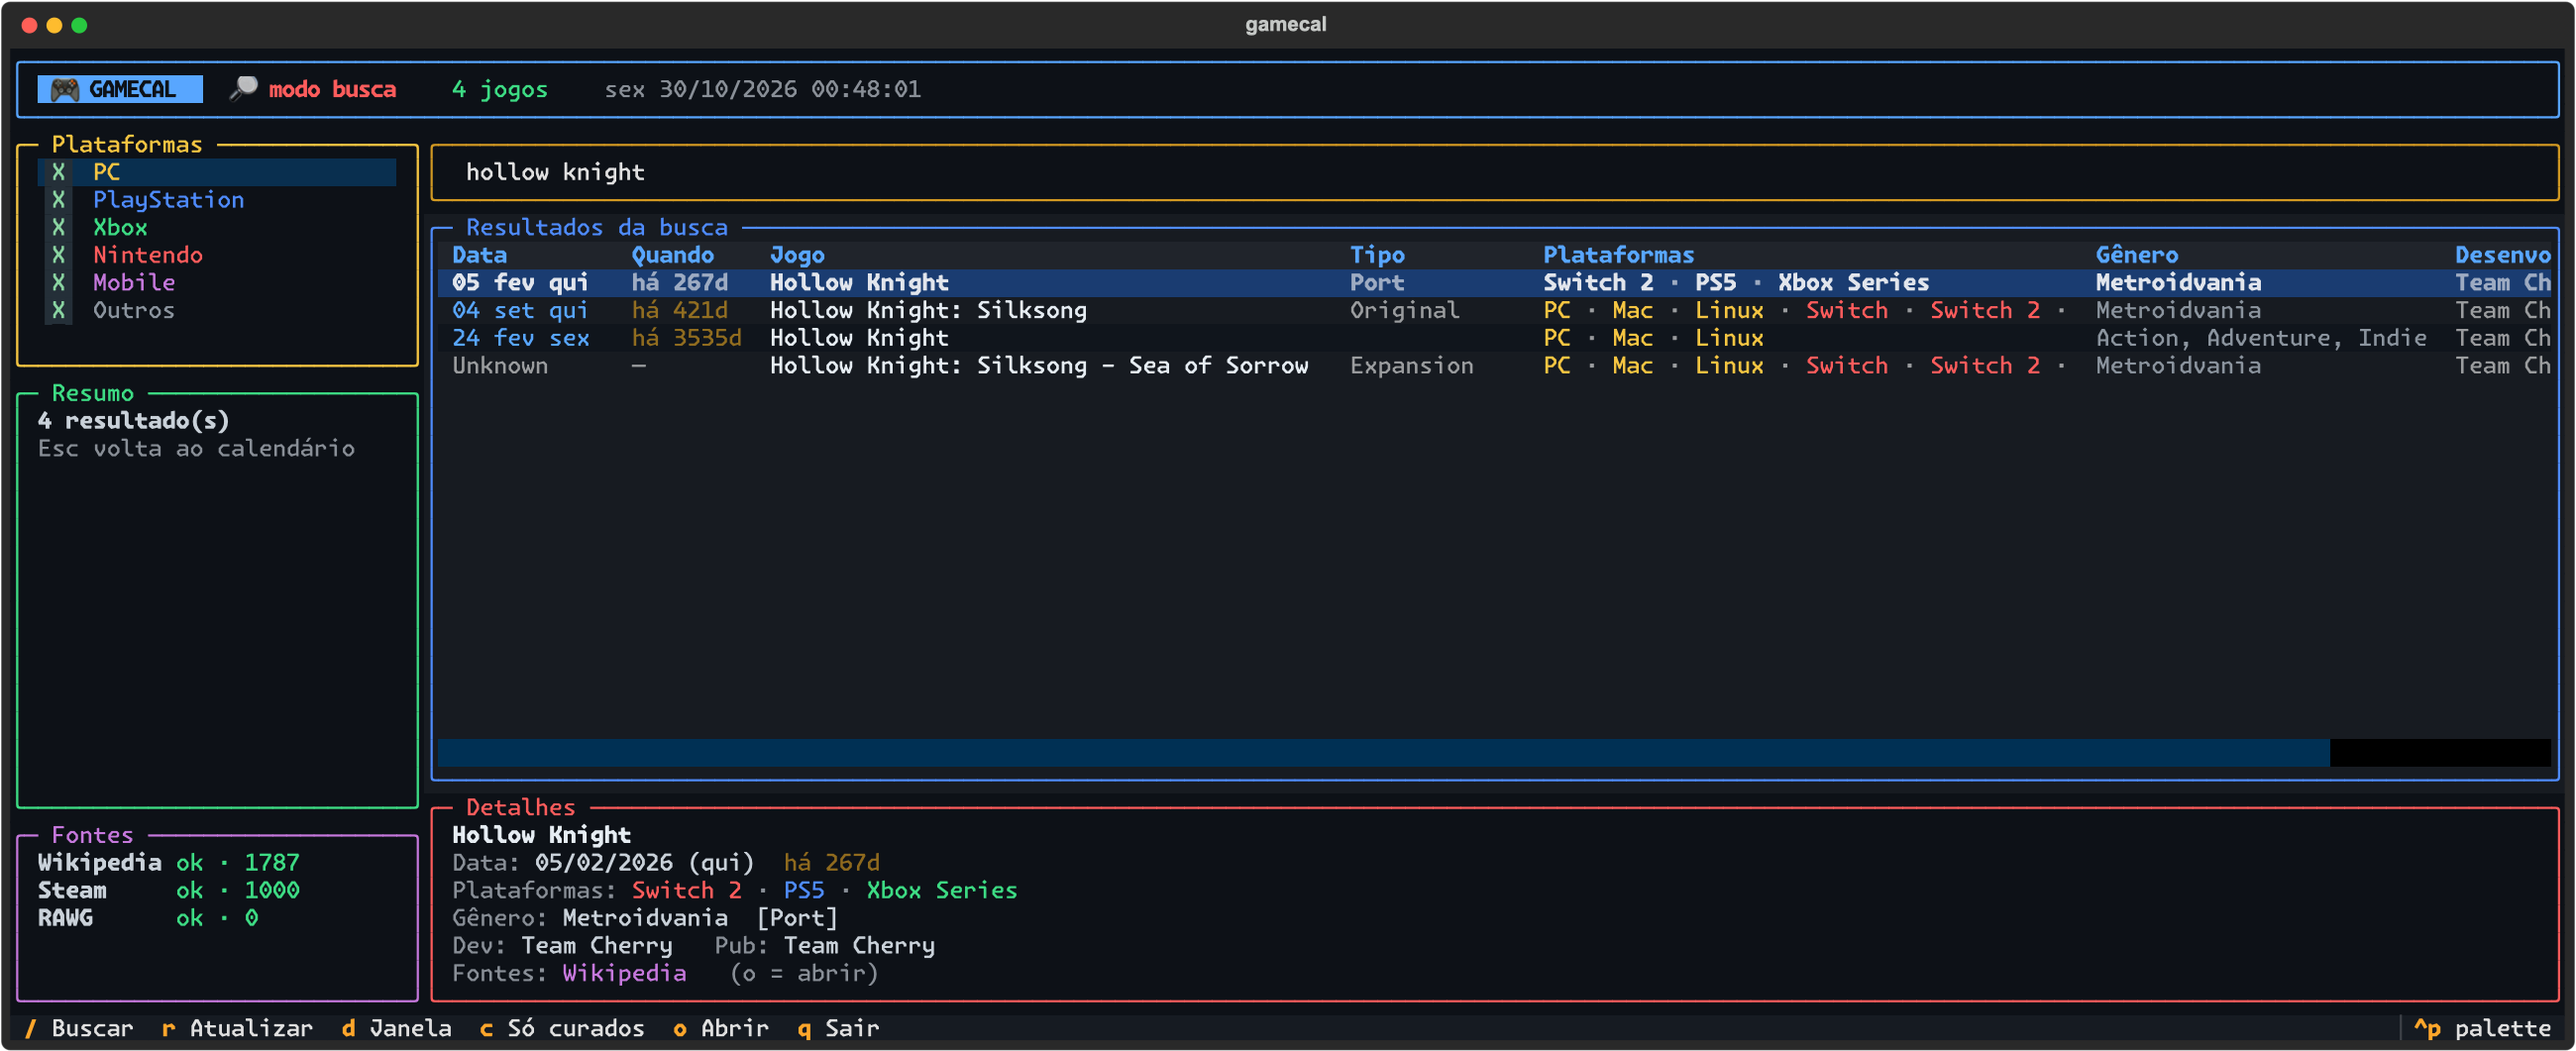
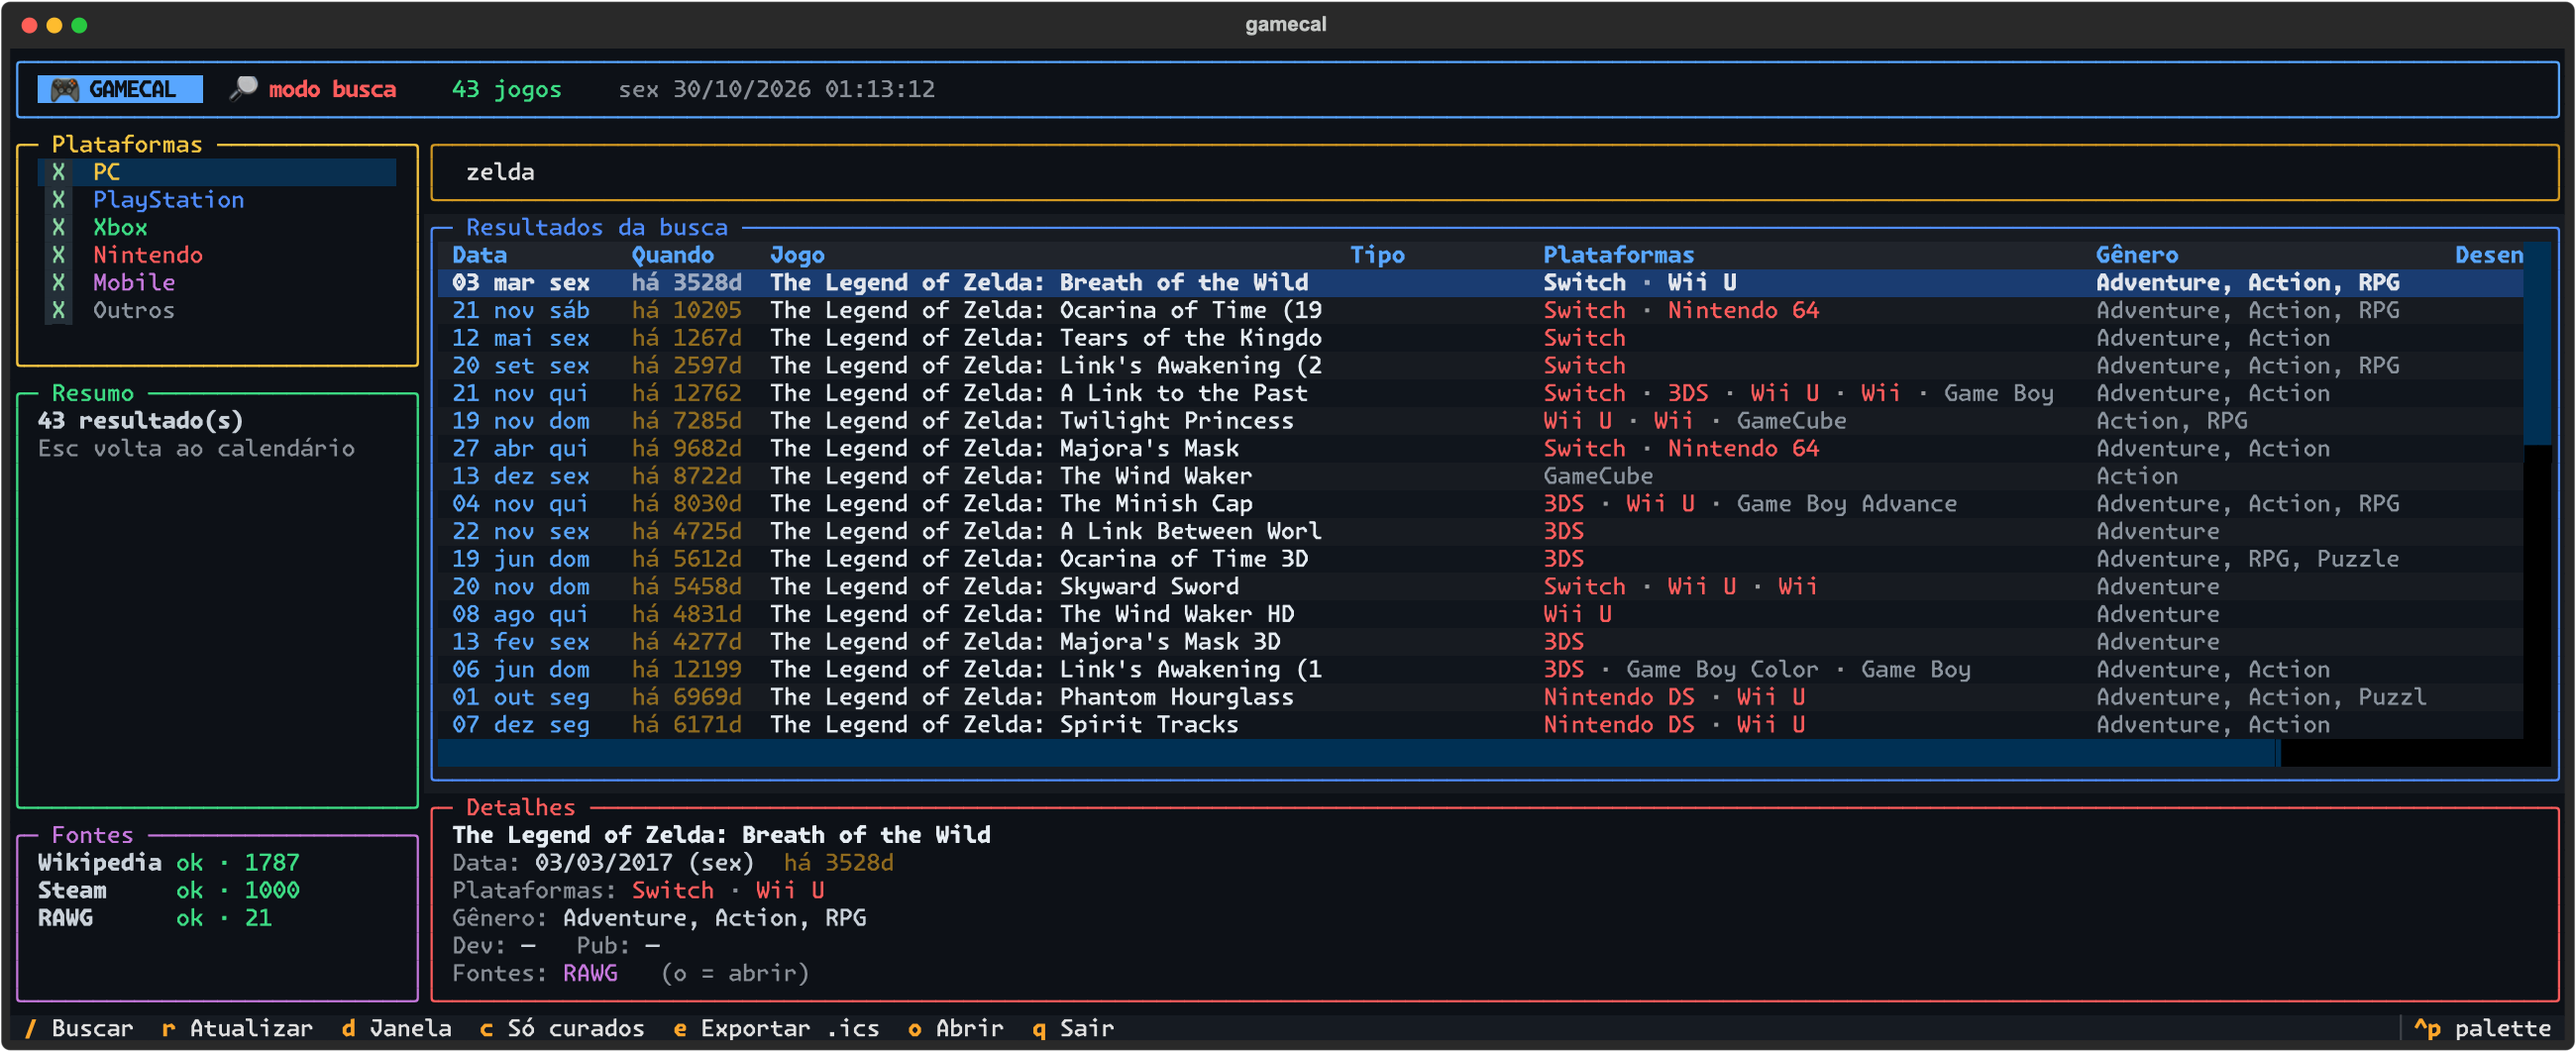
Integra RAWG: normaliza plataformas, busca por siglas e ordena por popularidade
- nomes de plataforma da RAWG casam com os da Wikipedia (sem duplicar ao mesclar)
- busca entende siglas (gta -> Grand Theft Auto) e descarta resultados sem relação
- resultados ordenados por popularidade (campo added da RAWG)
- screenshots e README atualizados com a RAWG ativa

diff --git a/gamecal.py b/gamecal.py
@@ -83,6 +83,13 @@ def norm(name: str) -> str:
     return re.sub(r"[^a-z0-9]", "", name.lower())
 
 
+def matches(name: str, toks: list[str]) -> bool:
+    """Todos os termos precisam estar no nome ou nas iniciais dele ("gta" → Grand Theft Auto)."""
+    low = name.lower()
+    acronym = "".join(w[0] for w in re.findall(r"[a-z0-9]+", low))
+    return all(t in low or t in acronym for t in toks)
+
+
 @dataclass
 class Game:
     name: str
@@ -95,6 +102,7 @@ class Game:
     pub: str = ""
     url: str = ""
     sources: list[str] = field(default_factory=list)
+    pop: int = 0                     # popularidade (RAWG 'added'); ordena a busca
 
     @property
     def d(self) -> date | None:
@@ -318,11 +326,22 @@ async def steam_search(c: httpx.AsyncClient, q: str) -> list[Game]:
 
 
 # ───────────────────────────── RAWG (opcional) ─────────────────────────────
+RAWG_PLATFORMS = {
+    "PC": "PC", "macOS": "Mac", "Linux": "Linux", "PlayStation 5": "PS5", "PlayStation 4": "PS4",
+    "PlayStation 3": "PS3", "PS Vita": "Vita", "Xbox Series S/X": "Xbox Series",
+    "Xbox One": "Xbox One", "Xbox 360": "Xbox 360", "Nintendo Switch": "Switch",
+    "Nintendo Switch 2": "Switch 2", "Wii U": "Wii U", "Wii": "Wii", "Nintendo 3DS": "3DS",
+    "Android": "Android", "iOS": "iOS",
+}
+
+
 def rawg_to_game(j: dict) -> Game:
-    plats = [p["platform"]["name"] for p in j.get("platforms") or []]
+    plats = [RAWG_PLATFORMS.get(p["platform"]["name"], p["platform"]["name"])
+             for p in j.get("platforms") or []]
     return Game(name=j["name"], date=j.get("released"), date_text=j.get("released") or "TBA",
                 platforms=plats, genre=", ".join(g["name"] for g in j.get("genres", [])[:3]),
-                url=f"https://rawg.io/games/{j.get('slug', '')}", sources=["RAWG"])
+                url=f"https://rawg.io/games/{j.get('slug', '')}", sources=["RAWG"],
+                pop=int(j.get("added") or 0))
 
 
 async def fetch_rawg(c: httpx.AsyncClient, start: date, end: date, force=False) -> list[Game]:
@@ -352,7 +371,7 @@ async def rawg_search(c: httpx.AsyncClient, q: str) -> list[Game]:
     if not RAWG_KEY:
         return []
     r = await c.get("https://api.rawg.io/api/games", params={
-        "key": RAWG_KEY, "search": q, "page_size": 15, "search_precise": "true"})
+        "key": RAWG_KEY, "search": q, "page_size": 40})
     return [rawg_to_game(x) for x in r.json().get("results", [])] if r.status_code == 200 else []
 
 
@@ -370,6 +389,7 @@ def merge(*lists: list[Game]) -> list[Game]:
                     for s in g.sources:
                         if s not in e.sources:
                             e.sources.append(s)
+                    e.pop = max(e.pop, g.pop)
                     for a in ("genre", "dev", "pub", "kind", "url"):
                         if not getattr(e, a) and getattr(g, a):
                             setattr(e, a, getattr(g, a))
@@ -732,12 +752,18 @@ class GameCal(App):
             except Exception:  # noqa: BLE001
                 pass
         toks = q.lower().split()
-        local = [g for g in self.pool if all(tk in g.name.lower() for tk in toks)]
-        online = await asyncio.gather(steam_search(c, q), rawg_search(c, q), return_exceptions=True)
-        online = [o for o in online if not isinstance(o, Exception)]
-        res = merge(local, *online)
-        res = [g for g in res if all(tk in g.name.lower() for tk in toks)]
-        res.sort(key=lambda g: (not norm(g.name).startswith(norm(q)), -(g.d.toordinal() if g.d else 0)))
+        local = [g for g in self.pool if matches(g.name, toks)]
+        steam_r, rawg_r = await asyncio.gather(steam_search(c, q), rawg_search(c, q),
+                                               return_exceptions=True)
+        steam = [] if isinstance(steam_r, Exception) else steam_r
+        rawg = [] if isinstance(rawg_r, Exception) else rawg_r
+        res = merge(local, *([g for g in lst if matches(g.name, toks)] for lst in (steam, rawg)))
+
+        def score(g: Game) -> int:
+            # Wikipedia/Steam têm piso, para não ficarem atrás de jogos amadores da RAWG
+            return g.pop if g.sources == ["RAWG"] else max(g.pop, 50)
+
+        res.sort(key=lambda g: (-score(g), -(g.d.toordinal() if g.d else 0)))
         self.search_results = res
         self.render_table()
 

diff --git a/README.md b/README.md
@@ -14,7 +14,7 @@
 - **Próximos lançamentos** (7, 15, 30, 60 ou 90 dias) com nome, data, contagem regressiva, plataformas, gênero, desenvolvedora e tipo (original, port, remaster, early access…).
 - **Filtro por plataforma:** PC, PlayStation, Xbox, Nintendo, Mobile.
 - **Painel de resumo:** lançamentos por semana e por plataforma, em barras.
-- **Busca de jogos** (`/`), lançados ou ainda por lançar.
+- **Busca de jogos** (`/`), lançados ou ainda por lançar. Entende siglas (`gta` acha Grand Theft Auto) e ordena por popularidade.
 - **Várias fontes** unidas sem duplicar o mesmo jogo.
 - **Cache local**, então abre rápido e funciona bem em reaberturas.
 - **Exporta para calendário `.ics`** (`e`): Apple Calendar, Google Calendar, Outlook… com lembrete na véspera às 9h.
@@ -94,7 +94,7 @@ Jogos sem data exata (só "Q4", "TBA") não são exportados. Reimportar o mesmo 
 |---|---|---|
 | **Wikipedia** (listas de jogos lançados por ano) | não precisa | Multiplataforma, com gênero, dev e publisher |
 | **Steam** (loja) | não precisa | PC, com datas exatas de "em breve" e busca com detalhes |
-| **RAWG** | opcional | Catálogo grande, melhora muito a busca de jogos antigos |
+| **RAWG** | opcional | Catálogo enorme (jogos de todas as épocas e plataformas). Melhora muito a busca; no calendário contribui com poucos itens futuros |
 
 Para ativar a RAWG, crie uma chave grátis em <https://rawg.io/apidocs> e use **uma** das opções:
 
@@ -108,6 +108,11 @@ mkdir -p ~/.config/gamecal && echo "sua-chave" > ~/.config/gamecal/rawg_key && c
 
 A chave fica só na sua máquina, e o gamecal nunca a grava no cache nem em arquivos exportados. Se a chave for inválida, o painel **Fontes** mostra `erro`.
 
+### Busca
+
+A busca combina as três fontes e une o mesmo jogo numa linha só (plataformas e fontes somadas). Os resultados vêm ordenados por popularidade (campo `added` da RAWG), para que
+Breath of the Wild apareça antes de jogos amadores com nome parecido. Nomes e siglas são aceitos: `gta vi`, `mario kart`, `hollow knight`.
+
 O painel **Fontes** mostra o estado de cada uma (`ok · quantidade` ou `erro`).
 O cache fica em `~/.cache/gamecal` (Wikipedia: 6h, Steam: 1h, RAWG: 3h).
 
@@ -120,7 +125,7 @@ na Wikipedia ou na RAWG. Os demais ficam ocultos e o painel avisa quantos são (
 
 - Os dados da Wikipedia e da Steam são lidos do HTML/APIs públicas. Se o formato mudar, uma fonte pode falhar e o painel **Fontes** vai mostrar `erro`.
 - Jogos da Wikipedia sem dia exato (só "Q4", "December" ou "TBA") não entram no calendário, mas aparecem na busca.
-- Sem chave RAWG, a busca de jogos antigos cobre só a Steam e as listas da Wikipedia (ano anterior, atual e próximo).
+- Sem chave RAWG, a busca de jogos antigos cobre só a Steam e as listas da Wikipedia (ano anterior, atual e próximo). Com a chave, a busca traz também clássicos de consoles antigos (ex.: toda a série Zelda).
 - As datas podem variar por região e mudar com adiamentos. Confira na página oficial antes de reservar.
 - Testado em macOS. Linux e Windows devem funcionar, mas não foram verificados.
 
